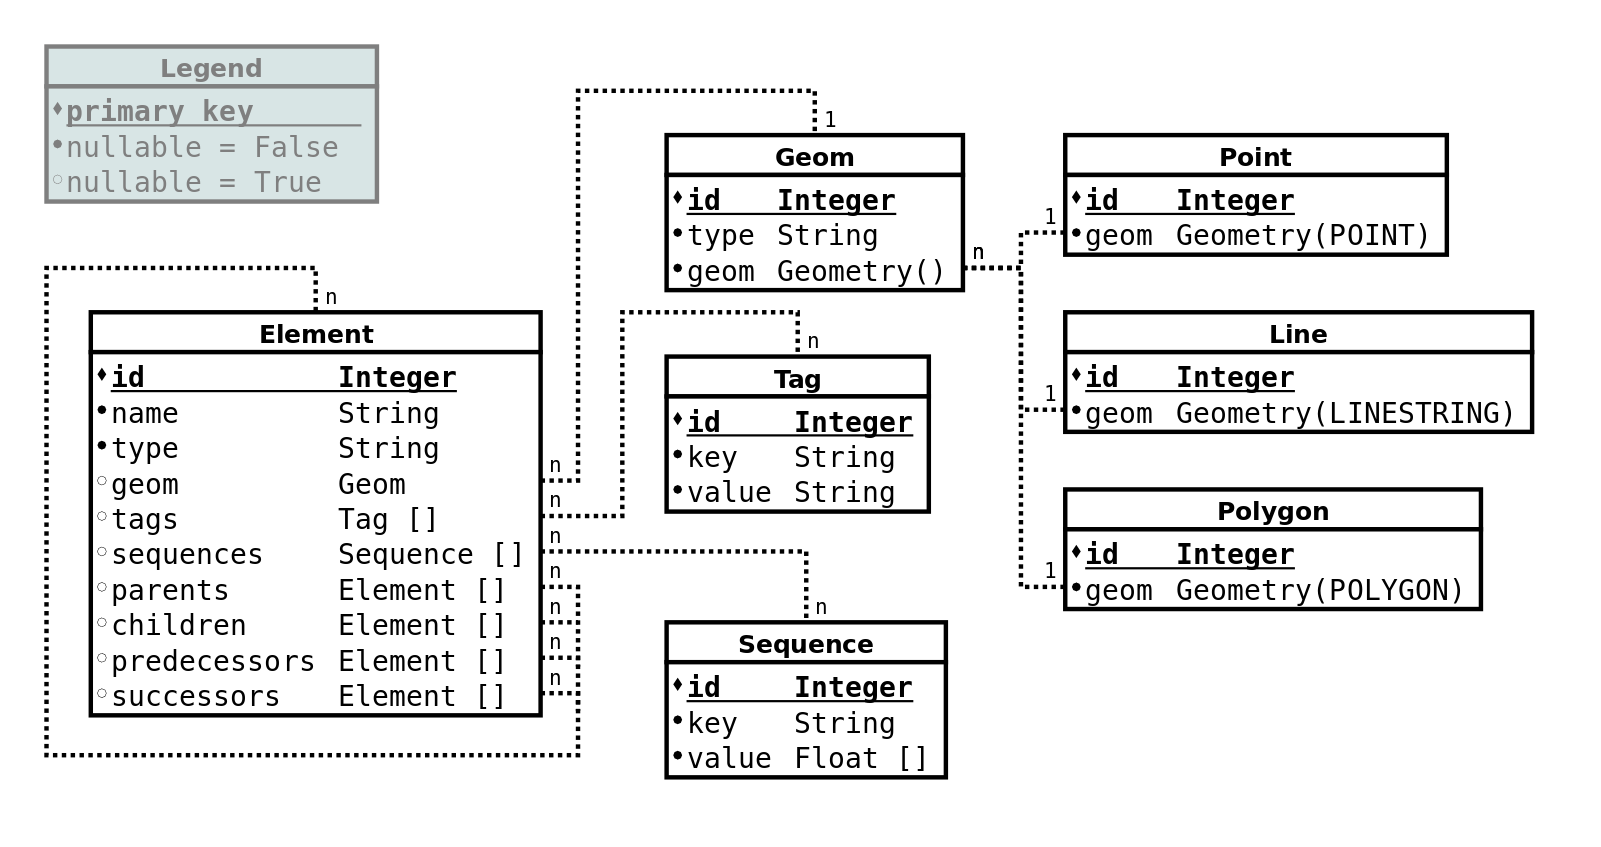
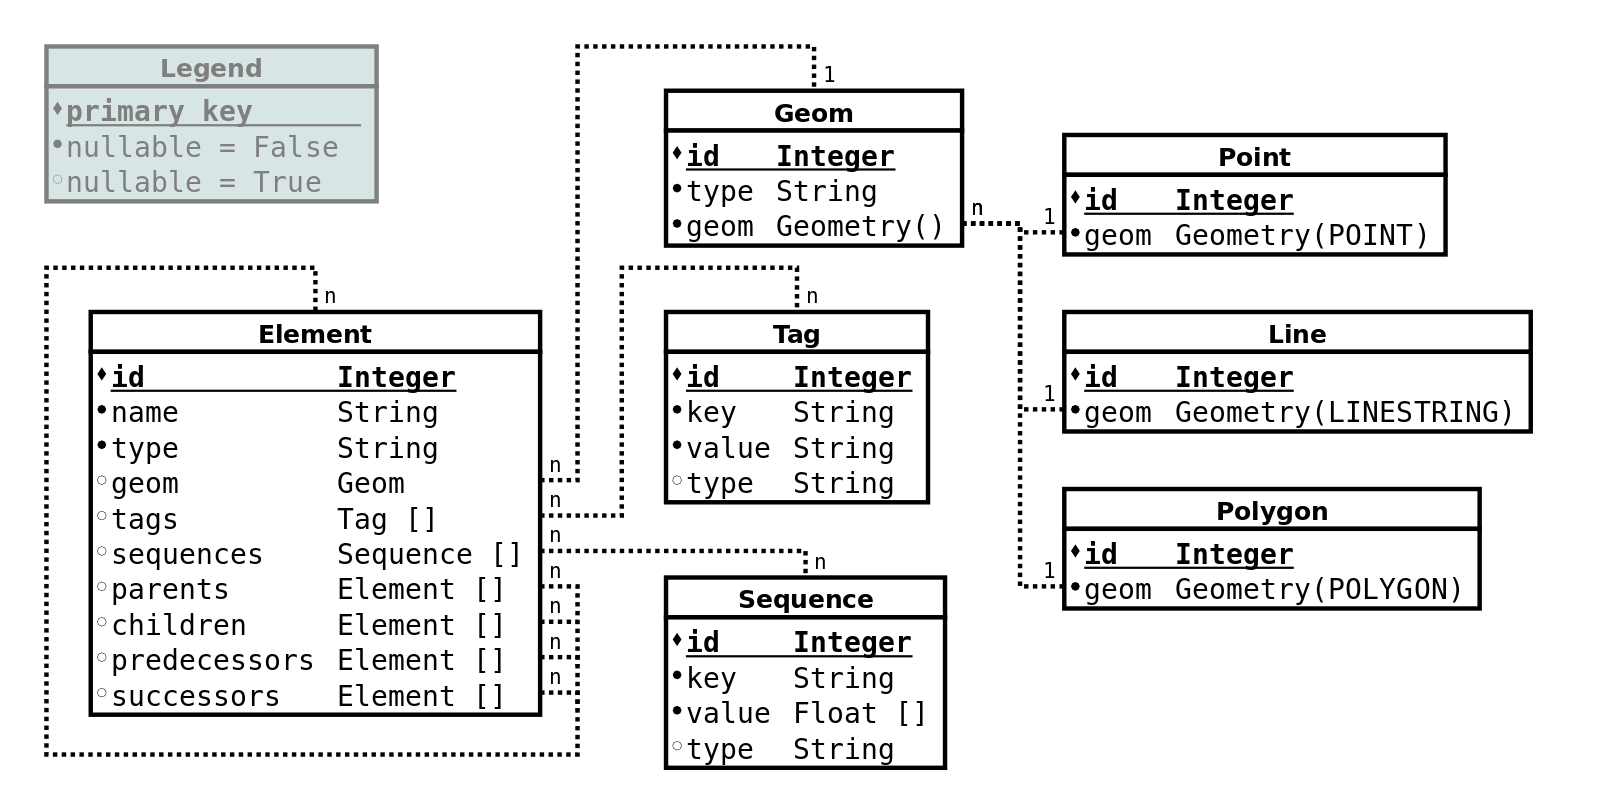
Add type attibute to tag and sequence

diff --git a/openmod/sh/schemas/oms.py b/openmod/sh/schemas/oms.py
@@ -78,21 +78,25 @@ class Tag(DB.Model):
     id = DB.Column(DB.Integer, primary_key=True)
     key = DB.Column(DB.String(255), nullable=False)
     value = DB.Column(DB.String(255), nullable=False)
+    type = DB.Column(DB.String(255))
 
-    def __init__(self, key, value):
+    def __init__(self, key, value, **kwargs):
         self.key = key
         self.value = value
+        for k in kwargs:
+            setattr(self, k, kwargs[k])
 
 class Sequence(DB.Model):
     id = DB.Column(DB.Integer, primary_key=True)
     key = DB.Column(DB.String(255), nullable=False)
-    # TODO: Could be as well an array of strings for a more generic approach
-    #       Additionally then perhaps sequence and tag could be merged...
     value = DB.Column(ARRAY(DB.Float, dimensions=1), nullable=False)
+    type = DB.Column(DB.String(255))
 
-    def __init__(self, key, value):
+    def __init__(self, key, value, **kwargs):
         self.key = key
         self.value = value
+        for k in kwargs:
+            setattr(self, k, kwargs[k])
 
 class Geom(DB.Model):
     id = DB.Column(DB.Integer, primary_key=True)
